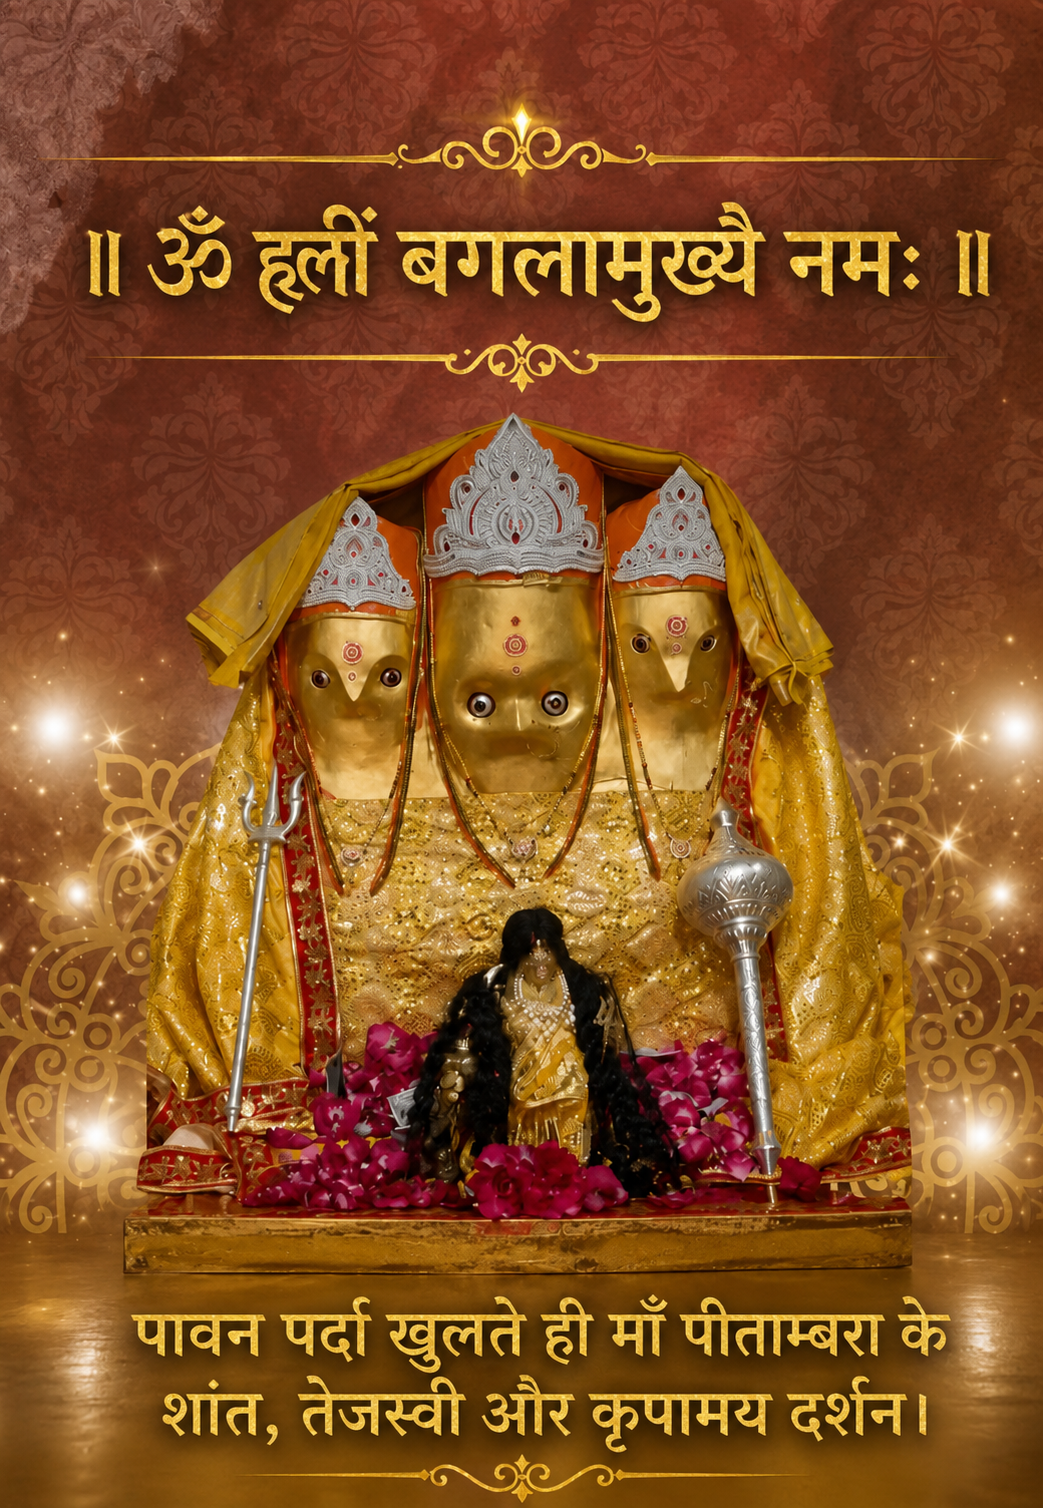
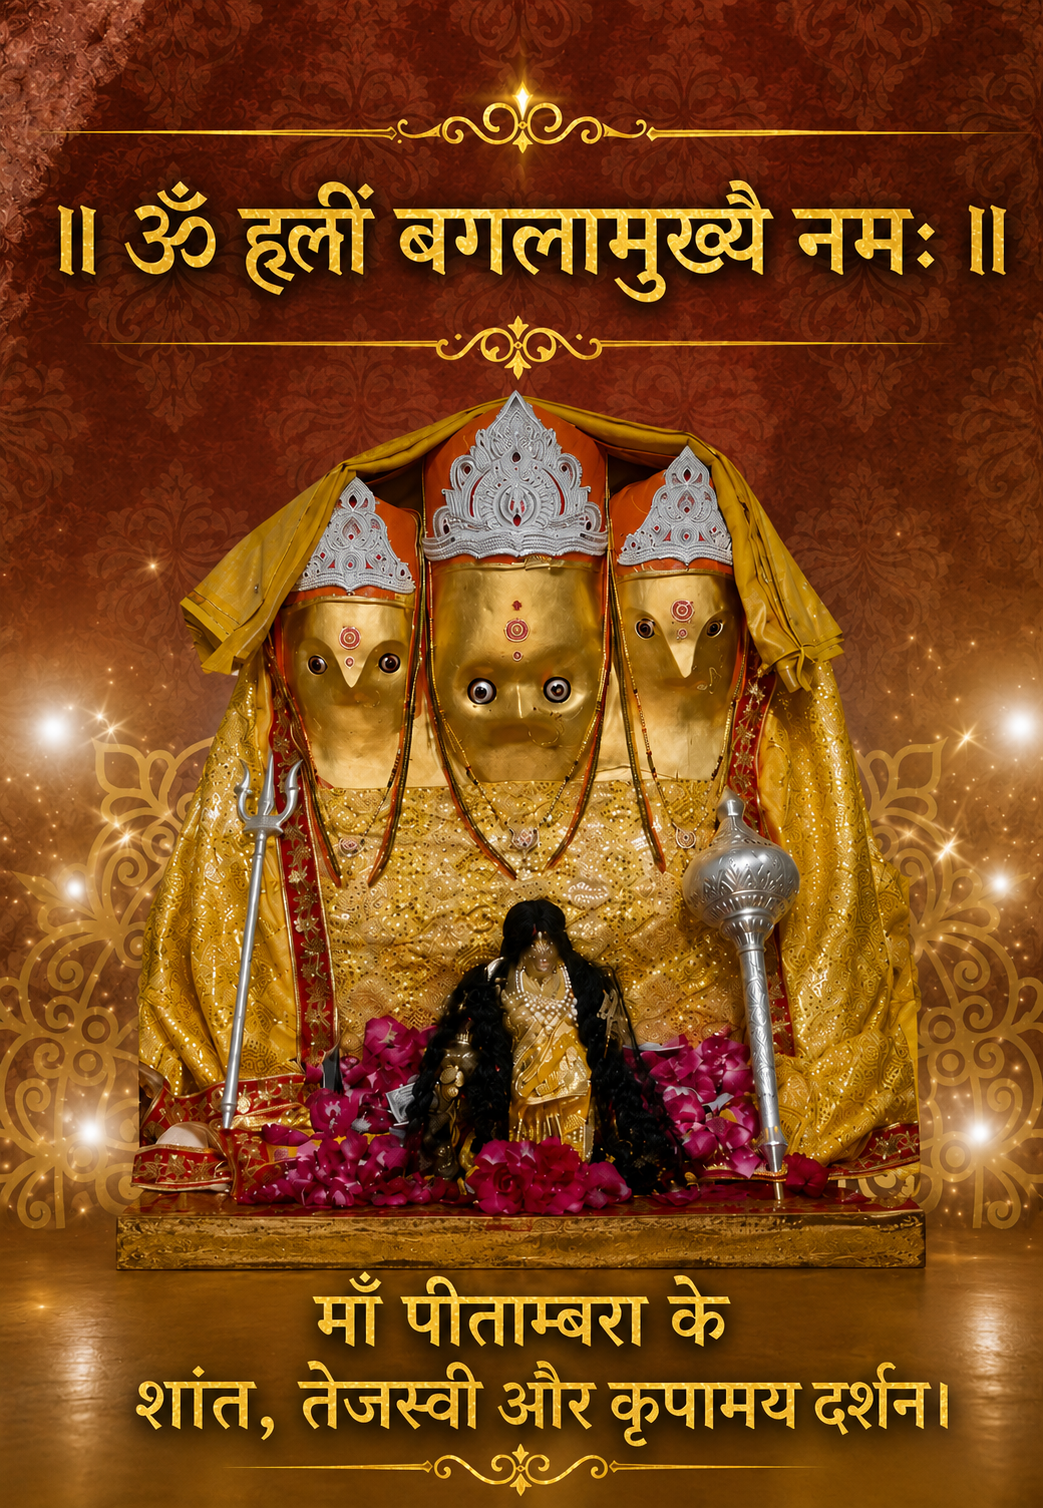
modification12

diff --git a/src/components/temple/know-mandir.tsx b/src/components/temple/know-mandir.tsx
@@ -678,14 +678,14 @@ function ChapterTwo() {
 
   const leftX = useTransform(
     smooth,
-    [0.14, 0.58],
-    ["0%", "-104%"]
+    [0.22, 0.52],
+    ["0%", "-135%"]
   );
-
+  
   const rightX = useTransform(
     smooth,
-    [0.14, 0.58],
-    ["0%", "104%"]
+    [0.22, 0.52],
+    ["0%", "135%"]
   );
 
   const curtainScale = useTransform(
@@ -696,8 +696,8 @@ function ChapterTwo() {
 
   const curtainOpacity = useTransform(
     smooth,
-    [0, 0.52, 0.7],
-    [1, 1, 0.2]
+    [0.18, 0.5, 0.58],
+    [1, 1, 0]
   );
 
   const captionOpacity = useTransform(
@@ -720,10 +720,9 @@ function ChapterTwo() {
 
   const imgOpacity = useTransform(
     smooth,
-    [0, 0.32, 1],
-    [0.82, 1, 1]
+    [0.15, 0.42, 1],
+    [0.45, 1, 1]
   );
-
   const imgDim = useTransform(
     smooth,
     [0, 0.48, 1],
@@ -733,7 +732,7 @@ function ChapterTwo() {
   return (
     <section
       ref={ref}
-      className="relative h-[130vh] overflow-hidden border-t border-gold/10 bg-night"
+      className="relative h-[170vh] overflow-hidden border-t border-gold/10 bg-night"
     >
       <div className="sticky top-0 flex h-full w-screen items-center justify-center overflow-hidden">
         <motion.img

diff --git a/src/routes/vishkanya_puja.tsx b/src/routes/vishkanya_puja.tsx
@@ -5,7 +5,7 @@ import {
   useTransform,
   useSpring,
 } from "framer-motion";
-import { useRef } from "react";
+import { useEffect, useRef } from "react";
 import {
   ChevronDown,
   Sparkles,
@@ -98,6 +98,12 @@ function ChapterLabel({ n, label }: { n: string; label: string }) {
 
 /* --------------------------- Page --------------------------- */
 function VishkanyaPujaPage() {
+  useEffect(() => {
+    window.scrollTo({
+      top: 0,
+      behavior: "instant",
+    });
+  }, []);
   return (
     <main className="bg-night-radial text-foreground">
       <Intro />
